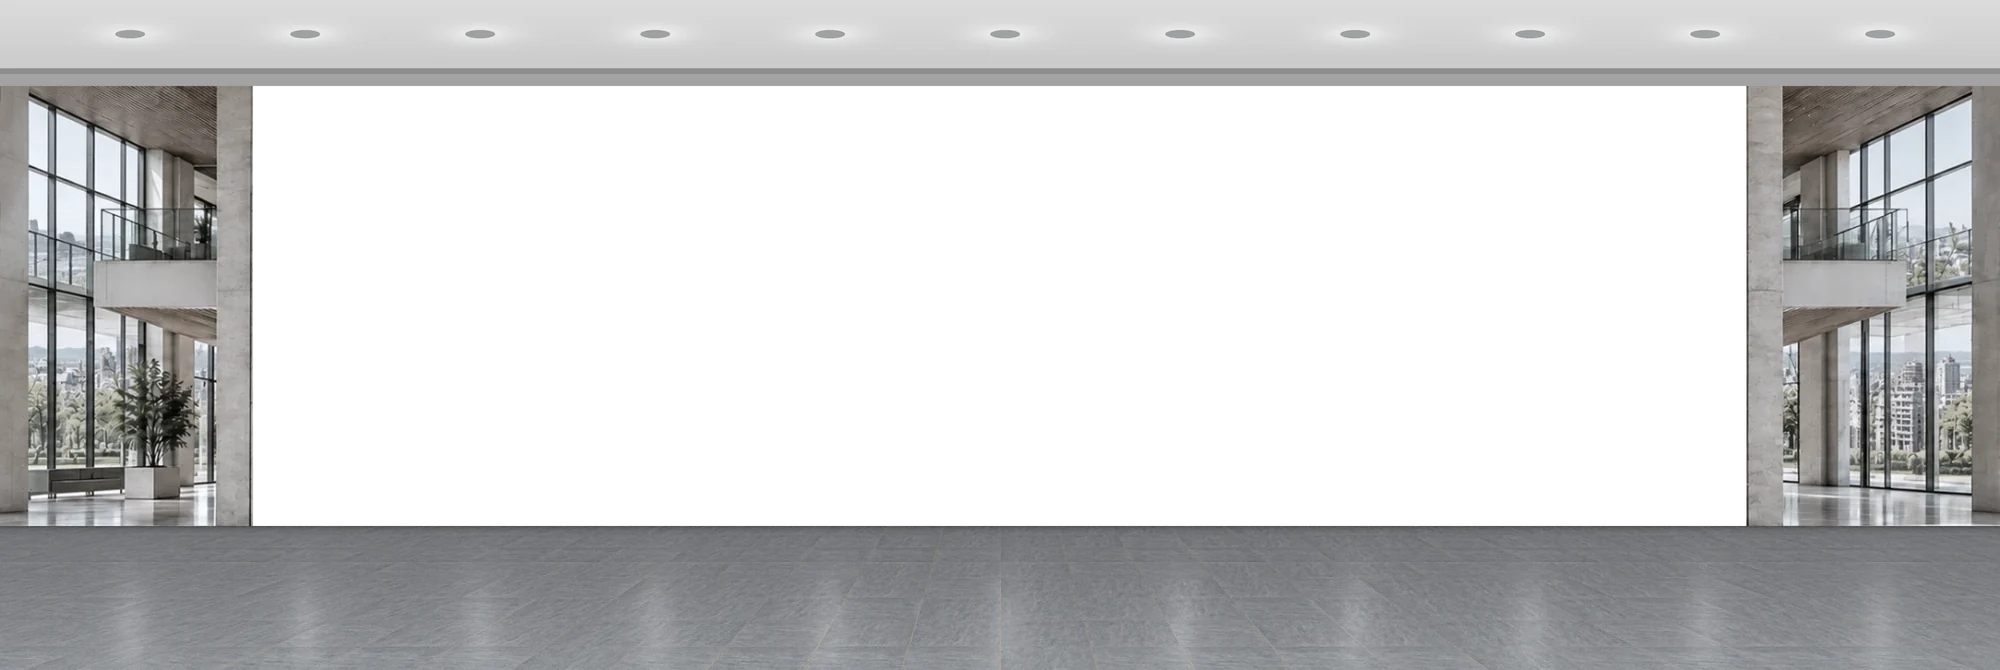
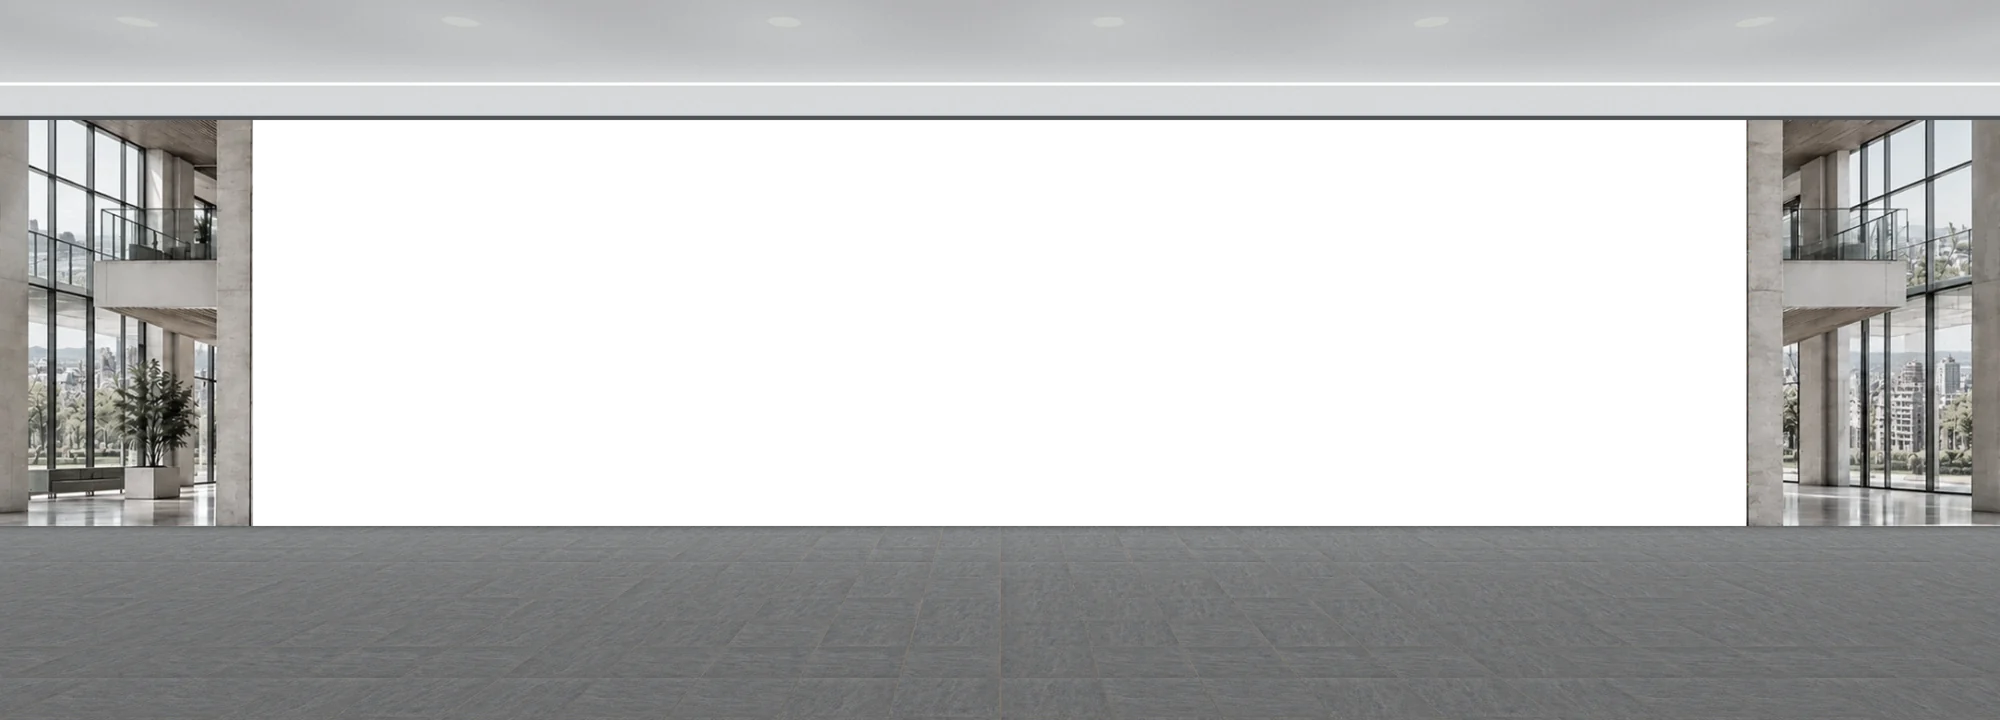
Hall : vitre moins haute sous un plafond de plâtre blanc, plus de sol, fleuve agrandi
- Intérieur 2000 × 720 : la baie commence plus bas, sous un plafond lisse avec
  fente de store, ligne lumineuse et spots encastrés en perspective.
- Vue décalée vers le bas : davantage de sol de granit.
- Ville agrandie et cadrée pour que le fleuve passe juste au-dessus des portes.

diff --git a/assets/hall-realiste.css b/assets/hall-realiste.css
@@ -1,5 +1,5 @@
-/* Hall de Montréal : photographie 2000 × 670.
-   La baie vitrée occupe x=253 à x=1746 (entre les piliers), de y=86 (sous la verrière) à y=526 (le sol).
+/* Hall de Montréal : intérieur 2000 × 720 (repères de la photographie 2000 × 670).
+   La baie vitrée occupe x=253 à x=1746 (entre les piliers), de y=120 (sous le plafond) à y=526 (le sol).
    Les portes s'arrêtent à y=236. Les mêmes repères placent la ville, les modules de verre et les rails. */
 .hall[data-hall-volume] {
   --hall-jour: url("photos/hall-interieur-jour.webp");
@@ -240,21 +240,24 @@
   width: 100%;
   height: 100%;
 }
-/* La ville, plus lointaine que la vitre, défile un peu moins vite : effet de profondeur. */
+/* La ville (3800 × 1090) est agrandie pour que le fleuve passe juste au-dessus des portes ;
+   plus lointaine que la vitre, elle défile un peu moins vite : effet de profondeur. */
 .hall-ville .hall-ville-plan {
-  inset: 0 auto 0 -4%;
-  width: 108%;
-  height: 100%;
-  transform: translateX(calc((.5 - var(--hall-defile,.5)) * 7%));
+  --ville-zoom: 1.12;
+  left: calc((1 - var(--ville-zoom)) * 50%);
+  top: -14.3%;
+  width: calc(var(--ville-zoom) * 100%);
+  height: auto;
+  aspect-ratio: 3800 / 1090;
+  transform: translateX(calc((.5 - var(--hall-defile,.5)) * 6%));
 }
 .hall-ville-plan > span {
   background-repeat: no-repeat;
-  background-size: cover;
-  background-position: center 40%;
+  background-size: 100% 100%;
 }
 .hall-bateaux {
-  -webkit-mask: url("photos/hall-ville-fleuve.png") center 40% / cover no-repeat;
-  mask: url("photos/hall-ville-fleuve.png") center 40% / cover no-repeat;
+  -webkit-mask: url("photos/hall-ville-fleuve.png") 0 0 / 100% 100% no-repeat;
+  mask: url("photos/hall-ville-fleuve.png") 0 0 / 100% 100% no-repeat;
 }
 .hall-ville .hall-ville-calque,
 .hall-calque {
@@ -314,7 +317,7 @@
     /* Largeur de porte rapportée à sa hauteur, et espace égal entre porte et panneau. */
     --hall-porte-ratio: .57;
     --hall-ecart: 30;
-    --hall-recadrage: 48;
+    --hall-recadrage: 72;
     /* Haut des portes, dans la photo ; le fleuve reste visible au-dessus. */
     --hall-porte-haut: 224;
   }
@@ -329,10 +332,10 @@
     /* L'échelle suit une hauteur de 540 px au plus : un hall plus haut montre davantage de sol. */
     --px: calc(max(calc(100cqw / 2000), calc(min(100cqh, 540px) / 670)) * var(--hall-zoom));
     --iw: calc(var(--px) * 2000);
-    --ih: calc(var(--px) * 670);
+    --ih: calc(var(--px) * 720);
     --ix: calc((100cqw - var(--iw)) / 2);
     --iy: calc(var(--px) * var(--hall-recadrage) * -1);
-    --verre-haut: calc(var(--iy) + var(--px) * 86);
+    --verre-haut: calc(var(--iy) + var(--px) * 120);
     --mur-haut: calc(var(--iy) + var(--px) * var(--hall-porte-haut));
     --mur-bas: calc(var(--iy) + var(--px) * 526);
     --mur-g: calc(var(--ix) + var(--px) * 253);

diff --git a/ru/index.html b/ru/index.html
@@ -17,7 +17,7 @@
 <link rel="alternate" hreflang="x-default" href="https://erjb-web.github.io/">
 <link rel="icon" href="../assets/favicon.svg?v=3fa5b764af" type="image/svg+xml">
 <link rel="stylesheet" href="../assets/site.css?v=menuiserie-realiste-20261016b">
-<link rel="stylesheet" href="../assets/hall-realiste.css?v=597ba78438">
+<link rel="stylesheet" href="../assets/hall-realiste.css?v=8420f700a1">
 <link rel="stylesheet" href="../assets/vulgarisation-studio.css?v=20261015studio5">
 <link rel="stylesheet" href="../assets/vulgarisation-editorial.css?v=20261015editorial4">
 <meta property="og:type" content="profile">
@@ -29,7 +29,7 @@
 <meta name="twitter:card" content="summary_large_image">
 <script type="application/ld+json">{"@context":"https://schema.org","@type":"Person","name":"Éric Bernier","url":"https://erjb-web.github.io/","image":"https://erjb-web.github.io/assets/portrait.jpg","jobTitle":"Аспирант по общественному здравоохранению · ESPUM · CRCHUM","email":"mailto:eric.bernier.1@umontreal.ca","affiliation":[{"@type":"CollegeOrUniversity","name":"École de santé publique de l’Université de Montréal (ESPUM)"},{"@type":"ResearchOrganization","name":"Centre de recherche du CHUM (CRCHUM)"}],"alumniOf":[{"@type":"CollegeOrUniversity","name":"Université Paris Panthéon-Assas"},{"@type":"CollegeOrUniversity","name":"Université de Bretagne Occidentale"}],"knowsAbout":["Управление и оценка политики здравоохранения","Межсекторальный подход в первичной медицинской помощи","Старение, утрата самостоятельности и политика поддержки жизни дома"],"sameAs":["https://orcid.org/0009-0001-4236-4932"]}</script>
 <script src="../assets/hall-marche.js?v=0d575cb00e" defer></script>
-<script src="../assets/hall-ciel.js?v=cf04262367" defer></script>
+<script src="../assets/hall-ciel.js?v=a1f356e17b" defer></script>
 <script src="../assets/site.js?v=fbb0a31b2f" defer></script>
 <script src="../assets/vulgarisation-studio.js?v=quizfix20261016" defer></script>
 <script src="../assets/vulgarisation-editorial.js?v=20261015editorial4" defer></script>

diff --git a/ar/index.html b/ar/index.html
@@ -17,7 +17,7 @@
 <link rel="alternate" hreflang="x-default" href="https://erjb-web.github.io/">
 <link rel="icon" href="../assets/favicon.svg?v=3fa5b764af" type="image/svg+xml">
 <link rel="stylesheet" href="../assets/site.css?v=menuiserie-realiste-20261016b">
-<link rel="stylesheet" href="../assets/hall-realiste.css?v=597ba78438">
+<link rel="stylesheet" href="../assets/hall-realiste.css?v=8420f700a1">
 <link rel="stylesheet" href="../assets/vulgarisation-studio.css?v=20261015studio5">
 <link rel="stylesheet" href="../assets/vulgarisation-editorial.css?v=20261015editorial4">
 <meta property="og:type" content="profile">
@@ -29,7 +29,7 @@
 <meta name="twitter:card" content="summary_large_image">
 <script type="application/ld+json">{"@context":"https://schema.org","@type":"Person","name":"Éric Bernier","url":"https://erjb-web.github.io/","image":"https://erjb-web.github.io/assets/portrait.jpg","jobTitle":"طالب دكتوراه في الصحة العامة · ESPUM · CRCHUM","email":"mailto:eric.bernier.1@umontreal.ca","affiliation":[{"@type":"CollegeOrUniversity","name":"École de santé publique de l’Université de Montréal (ESPUM)"},{"@type":"ResearchOrganization","name":"Centre de recherche du CHUM (CRCHUM)"}],"alumniOf":[{"@type":"CollegeOrUniversity","name":"Université Paris Panthéon-Assas"},{"@type":"CollegeOrUniversity","name":"Université de Bretagne Occidentale"}],"knowsAbout":["حوكمة السياسات الصحية وتقييمها","المقاربة المشتركة بين القطاعات في خط الرعاية الأول","الشيخوخة وفقدان الاستقلالية وسياسات دعم البقاء في المنزل"],"sameAs":["https://orcid.org/0009-0001-4236-4932"]}</script>
 <script src="../assets/hall-marche.js?v=0d575cb00e" defer></script>
-<script src="../assets/hall-ciel.js?v=cf04262367" defer></script>
+<script src="../assets/hall-ciel.js?v=a1f356e17b" defer></script>
 <script src="../assets/site.js?v=fbb0a31b2f" defer></script>
 <script src="../assets/vulgarisation-studio.js?v=quizfix20261016" defer></script>
 <script src="../assets/vulgarisation-editorial.js?v=20261015editorial4" defer></script>

diff --git a/innu/index.html b/innu/index.html
@@ -17,7 +17,7 @@
 <link rel="alternate" hreflang="x-default" href="https://erjb-web.github.io/">
 <link rel="icon" href="../assets/favicon.svg?v=3fa5b764af" type="image/svg+xml">
 <link rel="stylesheet" href="../assets/site.css?v=implantation20261015a">
-<link rel="stylesheet" href="../assets/hall-realiste.css?v=597ba78438">
+<link rel="stylesheet" href="../assets/hall-realiste.css?v=8420f700a1">
 <meta property="og:type" content="profile">
 <meta property="og:title" content="Éric Bernier · Innu-aimun">
 <meta property="og:description" content="Innu-aimun · Toutes les rubriques du site d’Éric Bernier ; présentation préliminaire et contenu français accessible en intégralité.">
@@ -27,7 +27,7 @@
 <meta name="twitter:card" content="summary_large_image">
 <script type="application/ld+json">{"@context":"https://schema.org","@type":"Person","name":"Éric Bernier","url":"https://erjb-web.github.io/","image":"https://erjb-web.github.io/assets/portrait.jpg","jobTitle":"Doctorant en santé publique · ESPUM · CRCHUM","email":"mailto:eric.bernier.1@umontreal.ca","affiliation":[{"@type":"CollegeOrUniversity","name":"École de santé publique de l’Université de Montréal (ESPUM)"},{"@type":"ResearchOrganization","name":"Centre de recherche du CHUM (CRCHUM)"}],"alumniOf":[{"@type":"CollegeOrUniversity","name":"Université Paris Panthéon-Assas"},{"@type":"CollegeOrUniversity","name":"Université de Bretagne Occidentale"}],"knowsAbout":["Gouvernance et évaluation des politiques de santé","Approche intersectorielle en première ligne","Vieillissement, perte d’autonomie et politiques du maintien à domicile"],"sameAs":["https://orcid.org/0009-0001-4236-4932"]}</script>
 <script src="../assets/hall-marche.js?v=0d575cb00e" defer></script>
-<script src="../assets/hall-ciel.js?v=cf04262367" defer></script>
+<script src="../assets/hall-ciel.js?v=a1f356e17b" defer></script>
 <script src="../assets/site.js?v=fbb0a31b2f" defer></script>
 <script src="../assets/audience.js?v=32f18e181a" data-audience-website-id="782c7df7-c2cf-4578-bddc-fa02662324af" data-audience-domaines="erjb-web.github.io" defer></script>
 </head>

diff --git a/iu/index.html b/iu/index.html
@@ -17,7 +17,7 @@
 <link rel="alternate" hreflang="x-default" href="https://erjb-web.github.io/">
 <link rel="icon" href="../assets/favicon.svg?v=3fa5b764af" type="image/svg+xml">
 <link rel="stylesheet" href="../assets/site.css?v=implantation20261015a">
-<link rel="stylesheet" href="../assets/hall-realiste.css?v=597ba78438">
+<link rel="stylesheet" href="../assets/hall-realiste.css?v=8420f700a1">
 <meta property="og:type" content="profile">
 <meta property="og:title" content="Éric Bernier · Inuktitut">
 <meta property="og:description" content="Inuktitut · Toutes les rubriques du site d’Éric Bernier ; présentation préliminaire et contenu français accessible en intégralité.">
@@ -27,7 +27,7 @@
 <meta name="twitter:card" content="summary_large_image">
 <script type="application/ld+json">{"@context":"https://schema.org","@type":"Person","name":"Éric Bernier","url":"https://erjb-web.github.io/","image":"https://erjb-web.github.io/assets/portrait.jpg","jobTitle":"Doctorant en santé publique · ESPUM · CRCHUM","email":"mailto:eric.bernier.1@umontreal.ca","affiliation":[{"@type":"CollegeOrUniversity","name":"École de santé publique de l’Université de Montréal (ESPUM)"},{"@type":"ResearchOrganization","name":"Centre de recherche du CHUM (CRCHUM)"}],"alumniOf":[{"@type":"CollegeOrUniversity","name":"Université Paris Panthéon-Assas"},{"@type":"CollegeOrUniversity","name":"Université de Bretagne Occidentale"}],"knowsAbout":["Gouvernance et évaluation des politiques de santé","Approche intersectorielle en première ligne","Vieillissement, perte d’autonomie et politiques du maintien à domicile"],"sameAs":["https://orcid.org/0009-0001-4236-4932"]}</script>
 <script src="../assets/hall-marche.js?v=0d575cb00e" defer></script>
-<script src="../assets/hall-ciel.js?v=cf04262367" defer></script>
+<script src="../assets/hall-ciel.js?v=a1f356e17b" defer></script>
 <script src="../assets/site.js?v=fbb0a31b2f" defer></script>
 <script src="../assets/audience.js?v=32f18e181a" data-audience-website-id="782c7df7-c2cf-4578-bddc-fa02662324af" data-audience-domaines="erjb-web.github.io" defer></script>
 </head>

diff --git a/es/index.html b/es/index.html
@@ -17,7 +17,7 @@
 <link rel="alternate" hreflang="x-default" href="https://erjb-web.github.io/">
 <link rel="icon" href="../assets/favicon.svg?v=3fa5b764af" type="image/svg+xml">
 <link rel="stylesheet" href="../assets/site.css?v=menuiserie-realiste-20261016b">
-<link rel="stylesheet" href="../assets/hall-realiste.css?v=597ba78438">
+<link rel="stylesheet" href="../assets/hall-realiste.css?v=8420f700a1">
 <link rel="stylesheet" href="../assets/vulgarisation-studio.css?v=20261015studio5">
 <link rel="stylesheet" href="../assets/vulgarisation-editorial.css?v=20261015editorial4">
 <meta property="og:type" content="profile">
@@ -29,7 +29,7 @@
 <meta name="twitter:card" content="summary_large_image">
 <script type="application/ld+json">{"@context":"https://schema.org","@type":"Person","name":"Éric Bernier","url":"https://erjb-web.github.io/","image":"https://erjb-web.github.io/assets/portrait.jpg","jobTitle":"Doctorando en salud pública · ESPUM · CRCHUM","email":"mailto:eric.bernier.1@umontreal.ca","affiliation":[{"@type":"CollegeOrUniversity","name":"École de santé publique de l’Université de Montréal (ESPUM)"},{"@type":"ResearchOrganization","name":"Centre de recherche du CHUM (CRCHUM)"}],"alumniOf":[{"@type":"CollegeOrUniversity","name":"Université Paris Panthéon-Assas"},{"@type":"CollegeOrUniversity","name":"Université de Bretagne Occidentale"}],"knowsAbout":["Gobernanza y evaluación de las políticas de salud","Enfoque intersectorial en atención primaria","Envejecimiento, pérdida de autonomía y políticas de permanencia en el domicilio"],"sameAs":["https://orcid.org/0009-0001-4236-4932"]}</script>
 <script src="../assets/hall-marche.js?v=0d575cb00e" defer></script>
-<script src="../assets/hall-ciel.js?v=cf04262367" defer></script>
+<script src="../assets/hall-ciel.js?v=a1f356e17b" defer></script>
 <script src="../assets/site.js?v=fbb0a31b2f" defer></script>
 <script src="../assets/vulgarisation-studio.js?v=quizfix20261016" defer></script>
 <script src="../assets/vulgarisation-editorial.js?v=20261015editorial4" defer></script>

diff --git a/en/index.html b/en/index.html
@@ -17,7 +17,7 @@
 <link rel="alternate" hreflang="x-default" href="https://erjb-web.github.io/">
 <link rel="icon" href="../assets/favicon.svg?v=3fa5b764af" type="image/svg+xml">
 <link rel="stylesheet" href="../assets/site.css?v=menuiserie-realiste-20261016b">
-<link rel="stylesheet" href="../assets/hall-realiste.css?v=597ba78438">
+<link rel="stylesheet" href="../assets/hall-realiste.css?v=8420f700a1">
 <link rel="stylesheet" href="../assets/vulgarisation-studio.css?v=20261015studio5">
 <link rel="stylesheet" href="../assets/vulgarisation-editorial.css?v=20261015editorial4">
 <meta property="og:type" content="profile">
@@ -29,7 +29,7 @@
 <meta name="twitter:card" content="summary_large_image">
 <script type="application/ld+json">{"@context":"https://schema.org","@type":"Person","name":"Éric Bernier","url":"https://erjb-web.github.io/","image":"https://erjb-web.github.io/assets/portrait.jpg","jobTitle":"PhD student in public health · ESPUM · CRCHUM","email":"mailto:eric.bernier.1@umontreal.ca","affiliation":[{"@type":"CollegeOrUniversity","name":"École de santé publique de l’Université de Montréal (ESPUM)"},{"@type":"ResearchOrganization","name":"Centre de recherche du CHUM (CRCHUM)"}],"alumniOf":[{"@type":"CollegeOrUniversity","name":"Université Paris Panthéon-Assas"},{"@type":"CollegeOrUniversity","name":"Université de Bretagne Occidentale"}],"knowsAbout":["Governance and evaluation of health policy","Intersectoral approaches in primary care","Ageing, loss of autonomy and ageing-in-place policies"],"sameAs":["https://orcid.org/0009-0001-4236-4932"]}</script>
 <script src="../assets/hall-marche.js?v=0d575cb00e" defer></script>
-<script src="../assets/hall-ciel.js?v=cf04262367" defer></script>
+<script src="../assets/hall-ciel.js?v=a1f356e17b" defer></script>
 <script src="../assets/site.js?v=fbb0a31b2f" defer></script>
 <script src="../assets/vulgarisation-studio.js?v=quizfix20261016" defer></script>
 <script src="../assets/vulgarisation-editorial.js?v=20261015editorial4" defer></script>

diff --git a/index.html b/index.html
@@ -17,7 +17,7 @@
 <link rel="alternate" hreflang="x-default" href="https://erjb-web.github.io/">
 <link rel="icon" href="assets/favicon.svg?v=3fa5b764af" type="image/svg+xml">
 <link rel="stylesheet" href="assets/site.css?v=alignement-portes-20261016e">
-<link rel="stylesheet" href="assets/hall-realiste.css?v=597ba78438">
+<link rel="stylesheet" href="assets/hall-realiste.css?v=8420f700a1">
 <link rel="stylesheet" href="assets/vulgarisation-studio.css?v=20261015studio5">
 <link rel="stylesheet" href="assets/vulgarisation-editorial.css?v=20261015editorial4">
 <meta property="og:type" content="profile">
@@ -29,7 +29,7 @@
 <meta name="twitter:card" content="summary_large_image">
 <script type="application/ld+json">{"@context":"https://schema.org","@type":"Person","name":"Éric Bernier","url":"https://erjb-web.github.io/","image":"https://erjb-web.github.io/assets/portrait.jpg","jobTitle":"Doctorant en santé publique · ESPUM · CRCHUM","email":"mailto:eric.bernier.1@umontreal.ca","affiliation":[{"@type":"CollegeOrUniversity","name":"École de santé publique de l’Université de Montréal (ESPUM)"},{"@type":"ResearchOrganization","name":"Centre de recherche du CHUM (CRCHUM)"}],"alumniOf":[{"@type":"CollegeOrUniversity","name":"Université Paris Panthéon-Assas"},{"@type":"CollegeOrUniversity","name":"Université de Bretagne Occidentale"}],"knowsAbout":["Gouvernance et évaluation des politiques de santé","Approche intersectorielle en première ligne","Vieillissement, perte d’autonomie et politiques du maintien à domicile"],"sameAs":["https://orcid.org/0009-0001-4236-4932"]}</script>
 <script src="assets/hall-marche.js?v=0d575cb00e" defer></script>
-<script src="assets/hall-ciel.js?v=cf04262367" defer></script>
+<script src="assets/hall-ciel.js?v=a1f356e17b" defer></script>
 <script src="assets/site.js?v=fbb0a31b2f" defer></script>
 <script src="assets/vulgarisation-studio.js?v=quizfix20261016" defer></script>
 <script src="assets/vulgarisation-editorial.js?v=20261015editorial4" defer></script>

diff --git a/zh/index.html b/zh/index.html
@@ -17,7 +17,7 @@
 <link rel="alternate" hreflang="x-default" href="https://erjb-web.github.io/">
 <link rel="icon" href="../assets/favicon.svg?v=3fa5b764af" type="image/svg+xml">
 <link rel="stylesheet" href="../assets/site.css?v=menuiserie-realiste-20261016b">
-<link rel="stylesheet" href="../assets/hall-realiste.css?v=597ba78438">
+<link rel="stylesheet" href="../assets/hall-realiste.css?v=8420f700a1">
 <link rel="stylesheet" href="../assets/vulgarisation-studio.css?v=20261015studio5">
 <link rel="stylesheet" href="../assets/vulgarisation-editorial.css?v=20261015editorial4">
 <meta property="og:type" content="profile">
@@ -29,7 +29,7 @@
 <meta name="twitter:card" content="summary_large_image">
 <script type="application/ld+json">{"@context":"https://schema.org","@type":"Person","name":"Éric Bernier","url":"https://erjb-web.github.io/","image":"https://erjb-web.github.io/assets/portrait.jpg","jobTitle":"公共卫生博士研究生 · ESPUM · CRCHUM","email":"mailto:eric.bernier.1@umontreal.ca","affiliation":[{"@type":"CollegeOrUniversity","name":"École de santé publique de l’Université de Montréal (ESPUM)"},{"@type":"ResearchOrganization","name":"Centre de recherche du CHUM (CRCHUM)"}],"alumniOf":[{"@type":"CollegeOrUniversity","name":"Université Paris Panthéon-Assas"},{"@type":"CollegeOrUniversity","name":"Université de Bretagne Occidentale"}],"knowsAbout":["卫生政策的治理与评估","第一线服务中的跨部门方法","老龄化、失能与居家养老政策"],"sameAs":["https://orcid.org/0009-0001-4236-4932"]}</script>
 <script src="../assets/hall-marche.js?v=0d575cb00e" defer></script>
-<script src="../assets/hall-ciel.js?v=cf04262367" defer></script>
+<script src="../assets/hall-ciel.js?v=a1f356e17b" defer></script>
 <script src="../assets/site.js?v=fbb0a31b2f" defer></script>
 <script src="../assets/vulgarisation-studio.js?v=quizfix20261016" defer></script>
 <script src="../assets/vulgarisation-editorial.js?v=20261015editorial4" defer></script>

diff --git a/falc/index.html b/falc/index.html
@@ -9,9 +9,9 @@
 <link rel="canonical" href="https://erjb-web.github.io/falc/">
 <link rel="icon" href="../assets/favicon.svg?v=3fa5b764af" type="image/svg+xml">
 <link rel="stylesheet" href="../assets/site.css?v=hallwall20261015c">
-<link rel="stylesheet" href="../assets/hall-realiste.css?v=597ba78438">
+<link rel="stylesheet" href="../assets/hall-realiste.css?v=8420f700a1">
 <script src="../assets/hall-marche.js?v=0d575cb00e" defer></script>
-<script src="../assets/hall-ciel.js?v=cf04262367" defer></script>
+<script src="../assets/hall-ciel.js?v=a1f356e17b" defer></script>
 <script src="../assets/site.js?v=fbb0a31b2f" defer></script>
 <script src="../assets/audience.js?v=32f18e181a" data-audience-website-id="782c7df7-c2cf-4578-bddc-fa02662324af" data-audience-domaines="erjb-web.github.io" defer></script>
 </head>

diff --git a/assets/hall-ciel.js b/assets/hall-ciel.js
@@ -350,7 +350,7 @@
     const nuit = etat?.nuit || 0;
     const b = taille(bateaux);
     if (b.w) {
-      const s = Math.max(b.w / 3800, b.h / 1090), ox = (b.w - 3800 * s) / 2, oy = (b.h - 1090 * s) * 0.4;
+      const s = b.w / 3800, ox = 0, oy = (b.h - 1090 * s) / 2;
       cb.setTransform(1, 0, 0, 1, 0, 0);
       cb.clearRect(0, 0, bateaux.width, bateaux.height);
       for (const n of navires) {
